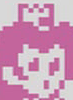
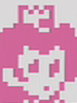
fix a slew of things, better error handling

diff --git a/smb3_video_autosplitter/autosplitter.py b/smb3_video_autosplitter/autosplitter.py
@@ -11,9 +11,13 @@ import win32file, win32pipe
 from smb3_video_autosplitter.util import locate_all_opencv, settings
 
 LOGGER = logging.getLogger(__name__)
-SPLIT_DEDUPE_WAIT_S = settings.get_int("SPLIT_DEDUPE_WAIT_S", fallback=5.0)
-SPLIT_OFFSET_FRAMES = settings.get_int("SPLIT_OFFSET_FRAMES", fallback=40)
+SPLIT_DEDUPE_WAIT_S = settings.get_int("split_dedupe_wait_s", fallback=5.0)
+SPLIT_OFFSET_FRAMES = settings.get_int("split_offset_frames", fallback=40)
 SPLIT_OFFSET_S = (SPLIT_OFFSET_FRAMES * 16.64) / 1000
+
+
+class LivesplitConnectFailedException(Exception):
+    pass
 
 
 class Autosplitter:
@@ -25,15 +29,18 @@ class Autosplitter:
                 fallback="data/trigger.png",
             )
         )
-        self.handle = win32file.CreateFile(
-            r"\\.\pipe\LiveSplit",
-            win32file.GENERIC_READ | win32file.GENERIC_WRITE,
-            0,
-            None,
-            win32file.OPEN_EXISTING,
-            win32file.FILE_ATTRIBUTE_NORMAL,
-            None,
-        )
+        try:
+            self.handle = win32file.CreateFile(
+                r"\\.\pipe\LiveSplit",
+                win32file.GENERIC_READ | win32file.GENERIC_WRITE,
+                0,
+                None,
+                win32file.OPEN_EXISTING,
+                win32file.FILE_ATTRIBUTE_NORMAL,
+                None,
+            )
+        except:
+            raise LivesplitConnectFailedException()
         res = win32pipe.SetNamedPipeHandleState(
             self.handle, win32pipe.PIPE_READMODE_BYTE, None, None
         )

diff --git a/smb3_video_autosplitter/main.py b/smb3_video_autosplitter/main.py
@@ -1,14 +1,48 @@
 """
 video based autosplitter for smb3
 """
+import logging
 
-from smb3_video_autosplitter.autosplitter import Autosplitter
+from pygrabber.dshow_graph import FilterGraph
+
+from smb3_video_autosplitter import settings
+from smb3_video_autosplitter.autosplitter import (
+    Autosplitter,
+    LivesplitConnectFailedException,
+)
 from smb3_video_autosplitter.opencv import OpenCV
+
+from smb3_video_autosplitter.logging import initialize_logging
+
+LOGGER = logging.getLogger(__name__)
+
+
+def print_camera_info():
+    graph = FilterGraph()
+    input_devices = graph.get_input_devices()
+    video_capture_source = settings.get_int("video_capture_source")
+    if (
+        video_capture_source == None
+        or video_capture_source == -1
+        or video_capture_source >= len(input_devices)
+    ):
+        LOGGER.warning(
+            "No camera selected or invalid, please update to one of the below:"
+        )
+        LOGGER.warning(input_devices)
+        exit()
+    LOGGER.info(f"Selected video source: {input_devices[video_capture_source]}")
 
 
 def main():
+    initialize_logging()
+    print_camera_info()
     opencv = OpenCV()
-    autosplitter = Autosplitter()
+    try:
+        autosplitter = Autosplitter()
+    except LivesplitConnectFailedException:
+        LOGGER.warning("Failed to connect to livesplit, is it running?")
+        exit()
     while True:
         opencv.tick()
         autosplitter.tick(opencv.frame)

diff --git a/smb3_video_autosplitter/opencv.py b/smb3_video_autosplitter/opencv.py
@@ -1,5 +1,5 @@
 from pygrabber.dshow_graph import FilterGraph
-
+import cv2
 from smb3_video_autosplitter.util import locate_all_opencv, settings
 
 
@@ -15,6 +15,9 @@ class OpenCV:
 
     def tick(self):
         self.graph.grab_frame()
+        if settings.get_boolean("show_capture_video") and self.frame is not None:
+            cv2.imshow("capture", self.frame)
+            _ = cv2.waitKey(1)
 
     def on_frame_received(self, frame):
         self.frame = frame

diff --git a/setup.py b/setup.py
@@ -2,7 +2,7 @@ from setuptools import setup, find_packages
 
 setup(
     name="smb3-video-autosplitter",
-    version="1.0.0",
+    version="0.0.1",
     description=("Ingest video data to render smb3 eh manip stimuli"),
     classifiers=[
         "Development Status :: 4 - Beta",

diff --git a/README.rst b/README.rst
@@ -18,6 +18,12 @@ https://github.com/narfman0/smb3-video-autosplitter/releases
 
 Download the zip and extract to your favorite directory.
 
+We need to update the trigger frame and region. First set show_capture_video=true,
+then run the tool. Take a screen cap of princess peach's letter or similar, then
+crop her face and take note of coordinates and width/height. Replace trigger.png
+in the `data/` directory, and set the `autosplitter_region` equal to the x,y,width,height
+of the cropped image relative to the original image.
+
 License
 -------
 
